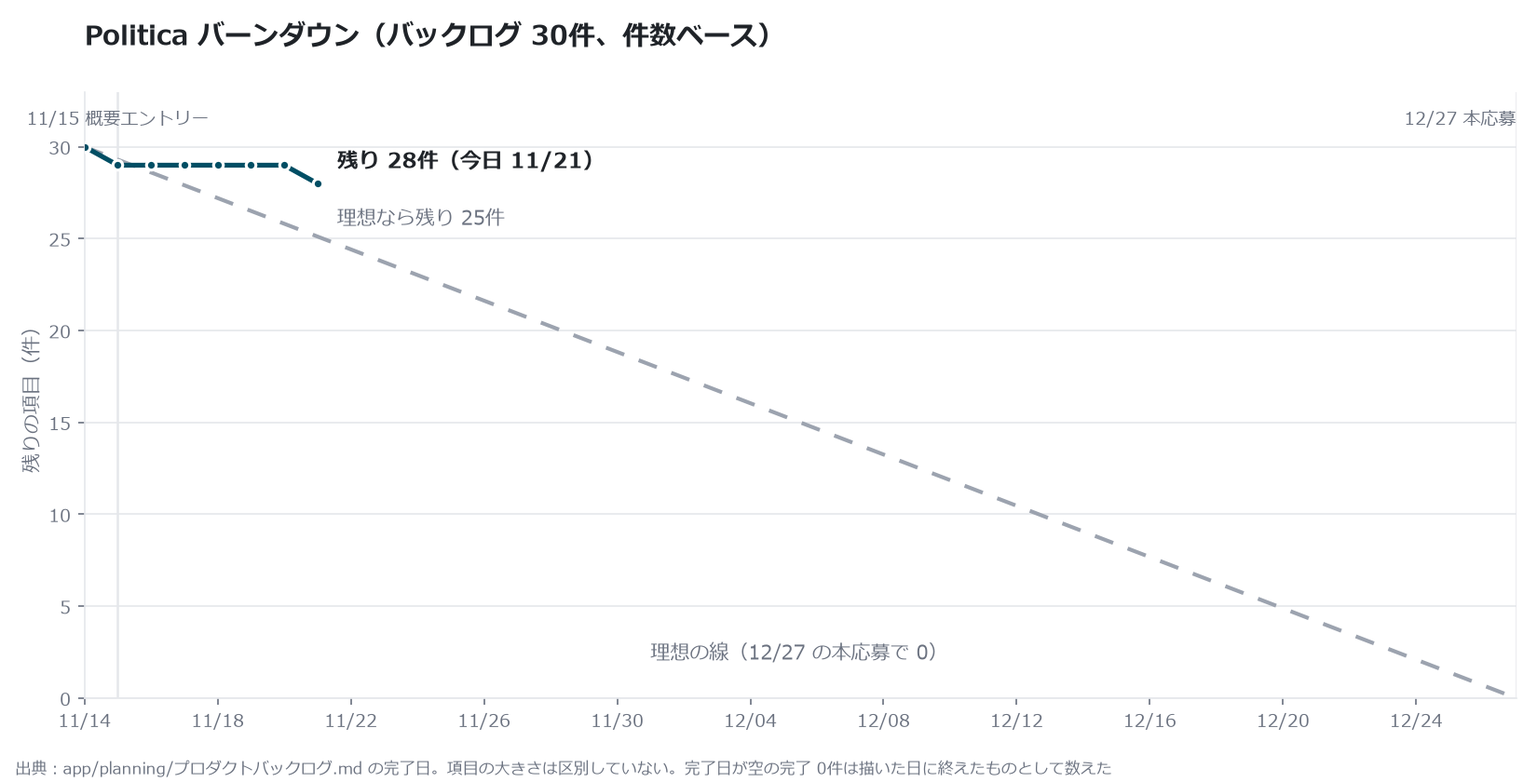
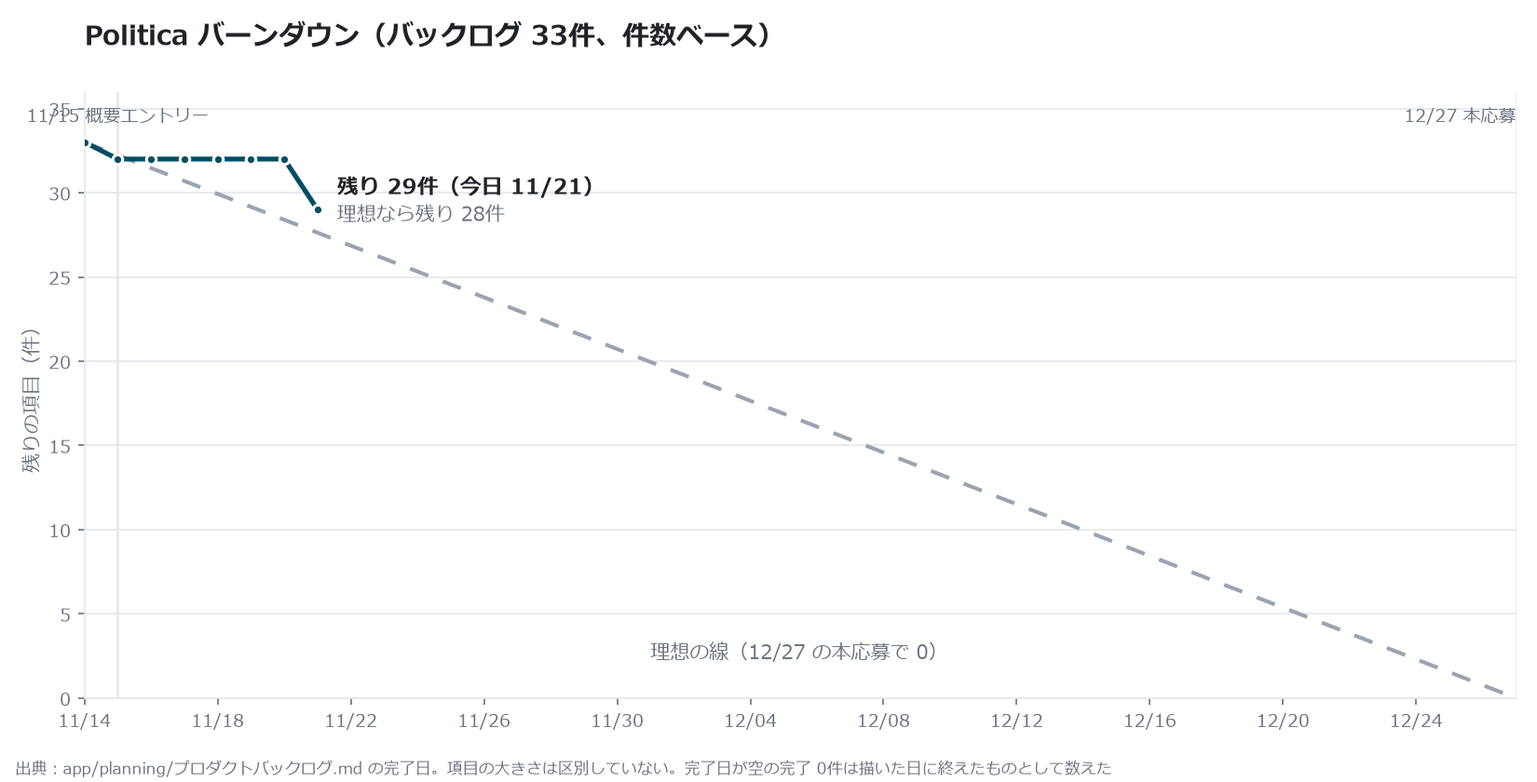
11/21 キックオフの議事録と、会議一覧・ガントチャート・バックログへの反映

diff --git a/app/planning/ガントチャート.html b/app/planning/ガントチャート.html
@@ -86,7 +86,7 @@ footer{color:var(--sub);font-size:12px;margin-top:24px}
 <body>
 <main>
 <h1>UDC2026 ガントチャート（Politica）</h1>
-<p class="meta">2026-11-21 版（前回のハッカソンからの引継ぎと、11/21 の役割分担を反映・akazuki0117-netizen）。日程は <code>app/planning/ガントチャート.html</code> の <code>TASKS</code> を直すと引き直せる。白抜きの◇は「案」（まだ決まっていない日付）。</p>
+<p class="meta">2026-11-21 版（11/21 キックオフの決定を反映：アイデアの絞り込みを 11/29 に、要件定義を 11/30〜12/6 にずらした）。日程は <code>app/planning/ガントチャート.html</code> の <code>TASKS</code> を直すと引き直せる。白抜きの◇は「案」（まだ決まっていない日付）。</p>
 
 <ul class="keys">
   <li><b>11/21（土）夕方か夜</b>アイデアの収束・要件定義・スコープの会議</li>
@@ -121,7 +121,7 @@ footer{color:var(--sub);font-size:12px;margin-top:24px}
     <ul>
       <li>11/21 までに、各自が「未成年の政治参加」のアプリ案を <code>idea/&lt;自分&gt;/</code> に Markdown で用意する</li>
       <li><b>11/21 の会議</b>で、アイデアを1つに収束し、スコープ（やること・やらないこと）を決める</li>
-      <li>11/22〜11/30 で要件定義（ペルソナ・機能一覧・画面一覧・使うオープンデータ）。入口の「18歳以下か」の設問は決定済み</li>
+      <li>11/21 のキックオフでは絞り切れなかった。<b>11/29（日）に、課題一覧を土台にした各自の案から1つに絞る</b>。12/6 ごろまでに要件定義（ペルソナ・機能一覧・画面一覧・使うオープンデータ）</li>
       <li>機能案はakazuki0117-netizen・tmzwx4a-hub。既存サービスの調査はakazuki0117-netizen</li>
       <li><b>データはMaci-as</b>：使えるオープンデータの洗い出し → データ作成・整備（アプリで使う形）→ データ分析（機能の根拠づくり）。動けるのは主に土日</li>
     </ul>
@@ -164,7 +164,7 @@ footer{color:var(--sub);font-size:12px;margin-top:24px}
   </div>
 </div>
 
-<footer>チーム cocatrix ／ アーバンデータチャレンジ2026（教育・政治）。日程の出典：docs/contest.md、meeting/20261114_事前キックオフ/README.md</footer>
+<footer>チーム cocatrix ／ アーバンデータチャレンジ2026（教育・政治）。日程の出典：docs/contest.md、meeting/ の議事録</footer>
 </main>
 
 <script>
@@ -188,12 +188,14 @@ footer{color:var(--sub);font-size:12px;margin-top:24px}
     { type: "phase", p: 1, name: "① 企画・要件定義・データ" },
     { type: "ms",    p: 1, name: "事前キックオフ", d: "2026-11-14" },
     { type: "ms",    p: 1, name: "作品概要エントリー締切", d: "2026-11-15" },
-    { type: "bar",   p: 1, name: "各自のアプリ案（未成年の政治参加）", who: "全員", s: "2026-11-15", e: "2026-11-21" },
+    { type: "bar",   p: 1, name: "各自のアプリ案（未成年の政治参加）", who: "全員", s: "2026-11-15", e: "2026-11-21", done: true },
+    { type: "bar",   p: 1, name: "課題一覧から、自分ごとにできるアプリ案を1〜3つ深める", who: "全員", s: "2026-11-22", e: "2026-11-29" },
     { type: "bar",   p: 1, name: "既存サービスの調査", who: "akazuki0117-netizen", s: "2026-11-16", e: "2026-11-28", soft: true },
     { type: "bar",   p: 1, name: "使えるオープンデータの洗い出し", who: "Maci-as", s: "2026-11-21", e: "2026-11-29" },
-    { type: "ms",    p: 1, name: "アイデア収束・要件定義・スコープ", d: "2026-11-21" },
-    { type: "bar",   p: 1, name: "要件定義（ペルソナ・機能・画面・データ）", who: "akazuki0117-netizen・kentakodama99・tmzwx4a-hub", s: "2026-11-22", e: "2026-11-28" },
-    { type: "ms",    p: 1, name: "要件の確定（案）", d: "2026-11-28", tbd: true },
+    { type: "ms",    p: 1, name: "キックオフ（9案の確認）", d: "2026-11-21" },
+    { type: "ms",    p: 1, name: "アイデアを1つに絞る", d: "2026-11-29" },
+    { type: "bar",   p: 1, name: "要件定義（ペルソナ・機能・画面・データ）", who: "akazuki0117-netizen・kentakodama99・tmzwx4a-hub", s: "2026-11-30", e: "2026-12-06" },
+    { type: "ms",    p: 1, name: "要件の確定（案）", d: "2026-12-06", tbd: true },
     { type: "bar",   p: 1, name: "データ作成・データ整備（アプリで使う形に）", who: "Maci-as", s: "2026-11-29", e: "2026-12-13" },
     { type: "bar",   p: 1, name: "データ分析（機能の根拠づくり）", who: "Maci-as", s: "2026-12-05", e: "2026-12-20", soft: true },
 

diff --git a/meeting/20261121_キックオフ/README.md b/meeting/20261121_キックオフ/README.md
@@ -1,0 +1,149 @@
+# 2026/11/21（土） キックオフ
+
+- 日時: 2026年11月21日（土）（Google Meet、約2時間15分）
+- 記録元: Google Meet の文字起こし（自動）
+- 参加者: akazuki0117-netizen（進行）、tmzwx4a-hub、yk2b0yuka-blip、Maci-as（途中から）
+- 欠席: kentakodama99、k-masahiro116
+
+---
+
+## 会議の目的
+
+- 新しいメンバーを含めて自己紹介をし、作業分担の体制を共有する
+- 勝てるアプリの分析と、日本の教育・政治の問題を共有したうえで、出ているアイデアを見て、目的・ターゲットと深掘りする案を決める
+- 進め方は [`docs/引継ぎ_前回のハッカソンから.md`](../../docs/引継ぎ_前回のハッカソンから.md) を反映する（アイデアの前に目的・ターゲット・効果を決める、要件定義に時間を使う、フロントとバックエンドを分ける）
+
+## 資料
+
+| 資料 | 中身 |
+|---|---|
+| [アジェンダ・進行表](アジェンダ・進行表.html) | 進行、日本の教育・政治の問題、9案のコア要素とユースケース、判定シート |
+| [勝てるアプリ分析](../../analysis/kentakodama99/hakkason_app_analyse/reports/勝てるアプリ分析_2026.md) | 都知事杯オープンデータ・ハッカソン 2026 の全作品の分析（勝ちパターン A〜D） |
+| [リサーチまとめ](../../analysis/tmzwx4a-hub/research_youth_politics_education.md) | 子ども・若者と政治教育の海外・日本の事例、課題（統計・Web 調査・X の声）、アイデアの種 |
+| [docs/contest.md](../../docs/contest.md) | コンテストの基本情報と作る成果物 |
+
+## 要約
+
+1. 自己紹介と作業分担の体制を共有した。**分担は案どおりで異論なし**
+2. 勝てるアプリ分析を見て、**今回はアプリの要素が強いので、使って「面白い」と感じる体験型（パターン D）が有力**という意見が出た。最終審査はオーディエンス投票もあるので、初見で分かりやすいことが大事
+3. 9案を見た。「**選挙を自分ごとにする**」が大事なキーワードとして挙がった。ターゲットを若者・未成年に絞らず、**年齢は広く見る**ほうが新しいものが出そう、という意見が出た
+4. アイデアが発散しており、どの課題に応えるのかが詰め切れなかった。**課題一覧を土台に、各自が「自分ごとにできる・自分たちが使いたい」アプリを1〜3案、深めて持ち寄り、次回（11/29）に1つに絞る**
+
+## 決定事項
+
+### 1. 体制
+- 作業分担は進行表の案どおり（マネジメント：akazuki0117-netizen、分析・データ：Maci-as、デザイン・フロントエンド：k-masahiro116・yk2b0yuka-blip、開発（バックエンド）：kentakodama99・tmzwx4a-hub）
+- 各自の動ける時間・予定は、Notion のダッシュボードに書き、週1回ほど更新する
+
+### 2. 進め方
+- 課題の一覧は tmzwx4a-hub のリサーチでほぼ網羅できている前提で進める。追加の課題は X（旧Twitter）などで自分で探し、見つけたら足す
+- akazuki0117-netizen が、課題を「解決できる課題か」「4つの作品タイプ（アプリケーション・データ・アイデア・アクティビティ）のどれで応えられるか」で先に分類し、md と Figma に置く
+- 各自が、その課題を見ながら、**「政治を自分ごとにできる」「自分たちが開発したら絶対に使う」アプリを1〜3案**、中身を深めて出す。次回、課題との対応と勝ちパターンで判定し、**1つに絞る**
+- アイデアの決定は 12月最初の土日ごろを目安にする
+
+### 3. リポジトリ
+- GitHub の無料版で6人全員を入れるため、リポジトリを public にする。コミットの履歴は消し、個人情報が残らない形で出し直す
+- push の前に、個人情報が入っていないかを skills のチェックで確かめる
+
+### 4. 検討の方向（決定ではなく、合意した論点）
+- テーマは「教育・政治」で進めるが、アイデア次第では「道路・交通」に変える可能性もある
+- 勝ちパターンは D（体験・ゲーム）が有力。A（データから新しいものさし）もあり。B（データそのものを配る）は今回のコンテストの性格から優先度が低い
+- ターゲットは年齢で絞らない
+- ホスティングは Cloudflare か GitHub Pages。最終的な成果物しだいで決める
+- 生成 AI は、募集要領に制限がないので使ってよい
+
+### 結論
+課題一覧を土台に、各自が「自分ごとにできる」アプリ案を1〜3つ深めて持ち寄り、11/29（日）の会議で1つに絞る。
+
+## アイデアへのコメント
+
+| 案 | 出たコメント |
+|---|---|
+| 案1 政治タイプ診断 | 投票マッチング・政党マッチングは既にあり、新しさは弱い（tmzwx4a-hub）。LINE 風のトークは今までにない入口（Maci-as） |
+| 案2 生徒裁判 | 面白いが、シナリオ（脚本）作りが重い |
+| 案3 ミライの選択 | 今までなさそうで、新しさがありそう（Maci-as）。データの取得と要約を自動で回す流れを考える必要がある。パターン C |
+| 案4 支持者ワードウルフ | ルールの理解に時間がかかり、初見の審査員に伝わりにくいのが心配 |
+| 案5 SEJICA | 授業に入れると学校の運用を変えることになる。友達と集まって遊ぶ形ならあり |
+| 案6 ゲンテン×5秒コッカイ | 下の「指摘事項」 |
+| 案7 Self-Helping School | 生徒会を「政治」と言えるか。オープンデータの出番がない |
+| 案8 将来設計と政治マッチング | ペルソナが若い人の人生設計 |
+| 案9 民主主義シミュレータ | 面白いが、「課題を解決する」実用度の点では厳しいかもしれない（tmzwx4a-hub） |
+
+その場で出た新しい案：
+
+- **自分の属性に合わせて、マニフェストで将来の自分がどうなるかを見せる**（tmzwx4a-hub）：例えば 24歳の自分が 30・35・40歳になったとき、そのマニフェストを支持したら経済的にどのくらい影響があるかを可視化する
+- **自分の1票でどれだけ変わるかを可視化する**（Maci-as）
+- **人生ゲームのような、お金から入る形**（yk2b0yuka-blip）：老後資金・税金などの「このままだといくら」から入る。盤面を一度作れば、仕組みはシンプルにできそう
+- **証拠カードで戦う裁判ゲーム**（akazuki0117-netizen）：弁護側と検察側が、事前に用意した証拠カードだけで戦う
+- **ファクトチェックのクイズ**（akazuki0117-netizen）：ファクトチェックの記事をもとに「どれが誤っているか」の問題を自動で作り、間違い探しのように解く
+- **マニフェストの進捗が分かるアプリ**（akazuki0117-netizen）：選挙前しか見ない問題に対して、選挙後も公約の達成状況を見られるようにする。政治家側へのナッジにもなりうる
+- **自分のスマホの閲覧履歴から、合いそうな政党をすすめる**（tmzwx4a-hub）：従うためではなく、客観的に自分を知る道具として
+
+## 指摘事項
+
+### 指摘1：ショート動画の課題（tmzwx4a-hub の案6）
+- 若者の政治への関心の入口はショート動画になっていて、投票先を動かした事例もある。一方で、情報の正しさや文脈が見えず、アルゴリズムで偏る（エコーチェンバー）危険がある
+- 案A（切り抜きの照合＝ファクトチェック側）と案B（公式記録からショート動画を作る＝発信側）の2つを出したが、2つにこだわらず、この課題へのアプローチ全体にコメントがほしい
+- 発言データベースまでのデータ集め（ETL）は重そう、という指摘に対し、国会会議録は API があるので作り込む必要はない（tmzwx4a-hub）
+- 自分で選ぶのではなく、ランダム・網羅的に流れてくるなら、今のショート動画とは違うものになる（Maci-as）
+- X のコミュニティノートのような、ガードレールの役割として見られる（tmzwx4a-hub）
+- 動画よりコメント欄から情報を得ることも多い。動画は最後まで見ずにコメントを開く（yk2b0yuka-blip）
+- 「文脈の分からない動画を見たことで悪い影響がある」というエビデンスがあれば、課題解決と言いやすい（akazuki0117-netizen）
+
+### 指摘2：課題の示し方（tmzwx4a-hub）
+- 募集要領は「地域課題の解決」で、課題を明記したうえでの解決策の提案を求めている。面白いだけでは厳しい。**その課題が多くの人に共有されているか**をどう見せるかが大事
+- 国にしか変えられない構造的な課題（制度・投票の手続き）と、自分たちで解決できる課題（心理的なハードルを下げるなど）を分けて考えるとよい
+- 「選挙に行こう」という呼びかけが逆効果になっている、という X の声が多く、意外で面白い。18歳の投票率は高いのに19歳で一気に下がる（住民票の問題も絡む）点も面白い
+
+### 指摘3：地域課題の捉え方（akazuki0117-netizen）
+- 一つの地域だけでなく、日本全体で共通の課題（1票の格差、東京一極集中など）でもよいのではないか。そのほうがターゲットを絞る必要がなく進めやすい
+
+### 指摘4：ターゲット（Maci-as）
+- 教育なら先生の課題も大きい。若者向けの政治の課題は既によく知られていて、調べればたくさん出てくるので、若者に縛らないほうが新しいものができそう
+
+## 連絡事項
+
+- コンテストの要点の読み合わせ：本応募は 12/27 23:59。成果物は説明資料（pptx）、実行サイトの URL、デモ動画（3分以内）、作品概要、使ったデータの一覧。最終審査会は 2027/2/20。最終審査に残るのは 10チームほどらしい
+- 最終審査会には、メインで作ったメンバーはなるべく参加し、ほかのメンバーも応援で行けるとよい
+- yk2b0yuka-blip：GitHub の招待のリンクが 404 になる → 新しいリポジトリで招待し直した
+- Maci-as は 11/28（土）が都合が悪い。yk2b0yuka-blip は次の土日（11/28・29）に出られないため、出席者で方向性を決めることがある（了承済み）。yk2b0yuka-blip は 12/25・26 も動けない
+- 次回の Google Meet は、時間制限のない有料版の機能を使うため、tmzwx4a-hub が予定を複製し、akazuki0117-netizen が日時を調整する
+
+## 宿題（To Do）
+
+### 全員
+- [ ] 課題一覧（[analysis/kazy/課題一覧_若者と政治教育.md](../../analysis/kazy/課題一覧_若者と政治教育.md)）を見て、「政治を自分ごとにできる」「自分たちが使いたい」アプリを1〜3案、中身を深めて `idea/<自分>/` に出す（11/29 まで）
+- [ ] 新しい課題を見つけたら、課題一覧か Figma に付箋で足す（X の声なども自分で探す）
+- [ ] Notion のダッシュボードに、動ける時間を書いて週1回ほど更新する
+- [ ] 新しいリポジトリを clone し直し、push の前に public-check を通す（[docs/公開のルール.md](../../docs/公開のルール.md)）
+
+### akazuki0117-netizen
+- [x] 課題を、解決できるか・作品タイプのどれで応えられるかで分類して md に置く（[課題一覧](../../analysis/kazy/課題一覧_若者と政治教育.md)）
+- [ ] 同じ分類を Figma にも置く
+- [x] リポジトリを public で出し直し、個人情報のチェックのスキルを作る（[skills/dev/public-check/](../../skills/dev/public-check/SKILL.md)）
+- [x] GitHub の招待を送り直す
+- [ ] ディレクトリを整理する
+- [ ] 次回の会議を設定する（11/29（日）16:00〜18:00）
+
+### tmzwx4a-hub
+- [ ] 次回の Google Meet の予定を複製する
+
+### Maci-as
+- [ ] リサーチの課題に対応するアイデアを洗い出す
+
+## 次回のミーティング
+
+- 日時: 2026年11月29日（日）16:00〜18:00（Google Meet）
+- テーマ: 各自のアイデアを、課題との対応と勝ちパターンで判定し、1つに絞る
+
+---
+
+## 記録者の注記
+
+- 原本は Google Meet の自動の文字起こし。聞き取りの誤りが多く、意味の取れないところは書いていない
+- 話者は文字起こしの表示名から当てた。会議の途中で表示名が変わった人は、同じ人として扱った
+- 誤変換と思われるところは、意味の通る言葉に直した（例：「白カソン」→ハッカソン、「土地杯」→都知事杯、「ノーション」→Notion、「クラウドプレア」→Cloudflare、「挑鮮度」→挑戦度）
+- この議事録は public のリポジトリに置くため、実名、仕事・所属の内容、個人の予定の理由、雑談は書いていない。メンバーは GitHub のユーザー名で書いた
+- コンテストの主催団体についての推測の発言は、根拠がなく、会議の決定にも関係しないので書いていない
+- 進行表の「ガントチャートの確認」は時間切れで扱われていない。次回以降に持ち越す
+- 判定シート（◎○△）は付けていない。各案へのコメントは「アイデアへのコメント」にまとめた

diff --git a/app/planning/プロダクトバックログ.md b/app/planning/プロダクトバックログ.md
@@ -37,10 +37,13 @@
 | 作品概要エントリーを出す（代表者・作品名・タイプ＝アプリケーション・テーマ＝教育・政治） | akazuki0117-netizen | 未着手 | Must | 11/15 |  |  | 締切 11/15（日）23:59。フォーム：https://forms.gle/tTcc9dGwGGtA4NoAA。記入案は docs/作品概要エントリー_案.md<br>11/15：作品概要は A 案、チーム名は cocatrix に決定 |
 | LINE グループを作り、メンバーを招待する（コンテストと FigJam のリンクも共有） | akazuki0117-netizen | 未着手 | Must |  |  |  | 11/14 事前キックオフの宿題 |
 | 新しいメンバーを誘う（バックエンドの候補の方・デザイナーの方・yk2b0yuka-blip） | akazuki0117-netizen | 未着手 | Must |  |  |  | 11/14 事前キックオフの宿題<br>11/21：Maci-asが分析・データで加わる |
-| 各自のアプリ案を用意する（未成年の政治参加） | みんな | 未着手 | Must | 11/21 |  |  | idea/ の自分のフォルダに Markdown で。11/21 の会議で具体化・収束する |
+| 各自のアプリ案を用意する（未成年の政治参加） | みんな | 完了 | Must | 11/21 | 11/21 |  | idea/ の自分のフォルダに Markdown で。11/21 の会議で具体化・収束する |
 | 政治リテラシーを上げるアプリの機能案を考える | akazuki0117-netizen・tmzwx4a-hub | 未着手 | Must | 11/21 |  |  | 11/14 事前キックオフの宿題。政治家をおすすめする機能はポピュリズム・エコーチェンバーのおそれがあるので慎重に（tmzwx4a-hub） |
+| 課題一覧から、自分ごとにできるアプリ案を1〜3つ深めて出す | みんな | 未着手 | Must | 11/29 |  |  | 11/21 キックオフで決定。「政治を自分ごとにできる」「自分たちが使いたい」案。課題一覧は analysis/kazy/課題一覧_若者と政治教育.md |
+| 課題の分類（作品タイプ・解決できるか）を Figma にも置く | akazuki0117-netizen | 未着手 | Should | 11/29 |  |  | md は analysis/kazy/課題一覧_若者と政治教育.md に置いた（11/21） |
+| アイデアを1つに絞る会議（11/29（日）16〜18時） | akazuki0117-netizen | 未着手 | Must | 11/29 |  |  | 次回の Google Meet の予定は tmzwx4a-hub が複製する |
 | AI でアプリのデザインの質を上げるスキルを調べる | tmzwx4a-hub | 未着手 | Should |  |  |  | 11/14 事前キックオフの宿題 |
-| 要件定義・スコープの会議を設定する（11/21 の夕方か夜） | akazuki0117-netizen | 未着手 | Must | 11/21 |  |  | 11/14 事前キックオフの宿題。議事録の置き場所も用意する |
+| 要件定義・スコープの会議を設定する（11/21 の夕方か夜） | akazuki0117-netizen | 完了 | Must | 11/21 |  11/21 |  | 11/14 事前キックオフの宿題。議事録の置き場所も用意する |
 | 既存の政治参加・主権者教育のサービスを調べる | akazuki0117-netizen | 未着手 | Must |  |  |  | survey/kizon-service/ |
 | 使えるオープンデータを洗い出す（投票率・議会・予算など） | Maci-as | 未着手 | Must |  |  |  | 利用規約も確かめる<br>11/21：データ作成・整備・分析はMaci-as |
 | データ作成・データ整備（アプリで使う形にする） | Maci-as | 未着手 | Must | 12/13 |  |  | 出典（URL・取得日）と利用規約を残す |
@@ -63,5 +66,6 @@
 | 11/14 | 作った |
 | 11/15 | 11/14 事前キックオフの決定と宿題を反映 |
 | 11/15 | 部門は一般部門に決定 |
+| 11/21 | キックオフの決定と宿題を反映 |
 | 11/21 | 本応募フォームの項目に合わせて、エビデンス・説明資料・デモ動画・公開の行を追加 |
 | 11/21 | 役割分担（Maci-asの参加、デザイン・フロントはk-masahiro116・yk2b0yuka-blip、バックエンドはkentakodama99・tmzwx4a-hub）と、前回からの引継ぎを反映 |

diff --git a/meeting/README.md b/meeting/README.md
@@ -11,3 +11,4 @@
 | 日付 | 会議 | 中身 | 主な決定 |
 |---|---|---|---|
 | 2026/11/14（土） | [事前キックオフ](20261114_事前キックオフ/README.md) | オープンデータハッカソンの振り返り、UDC2026 に出るか、作るもの・チーム名・体制・日程 | 「ひそひそ」を未成年向けの政治教育・仮想投票のアプリにピボットし、サービス名ポリティカ・チーム名コカトリス（cocatrix）で応募。リーダーはローテーション、UI はk-masahiro116。11月に要件定義・設計、12月中ごろから集中開発。Cloudflare でホスティング。入口で18歳以下かをたずねる。次回 11/21（土）夕方か夜 |
+| 2026/11/21（土） | [キックオフ](20261121_キックオフ/README.md) | 自己紹介、作業分担、勝てるアプリ分析と日本の教育・政治の問題の共有、9案の確認。[アジェンダ・進行表](20261121_キックオフ/アジェンダ・進行表.html) | 分担は案どおり。体験型（パターン D）が有力。キーワードは「選挙を自分ごとにする」、年齢でターゲットを絞らない。課題一覧を土台に各自1〜3案を深めて持ち寄り、11/29（日）16〜18時に1つに絞る。リポジトリは public で出し直す |
